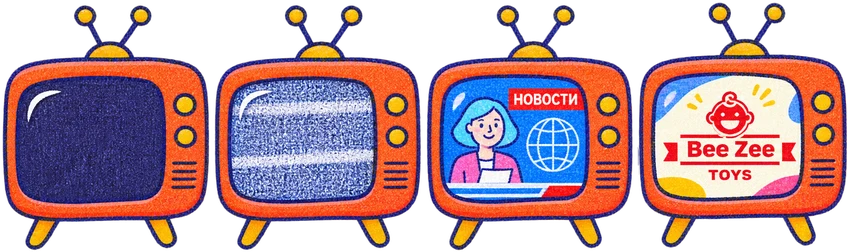
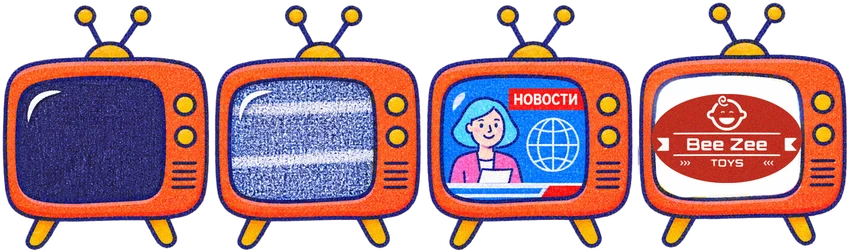
Пресса: новый кадр с логотипом, телевизор крупнее и правее
Claude-Session: https://claude.ai/code/session_01LuaPK2yyUtEmAMNWEgbU9C

Changed region(s): [[0.7665, 0.2778, 0.9505, 0.8056]]

diff --git a/index.html b/index.html
@@ -252,7 +252,7 @@ footer{max-width:1320px;margin:0 auto;padding:24px 24px 48px;display:flex;flex-w
 <svg class="bam" viewBox="0 0 24 24" aria-hidden="true" style="left:36.13%;top:68.6%;width:2.4%;height:1.6%"><path d="M4 14L1 6M12 10V1M20 14l3-8" stroke="#F6C945" stroke-width="3.2" stroke-linecap="round" fill="none"/></svg>
 </div>
 <div class="g" data-room="pre" data-box="215,1153,790,1300">
-<span class="sprite p-tv" style="left:46.97%;top:77.8%;width:7.81%;height:6.18%"></span>
+<span class="sprite p-tv" style="left:55.47%;top:75.59%;width:10.74%;height:8.53%"></span>
 <span class="sprite p-granny" style="left:26.32%;top:75.35%;width:11.82%;height:8.88%"></span>
 </div>
 </div>
